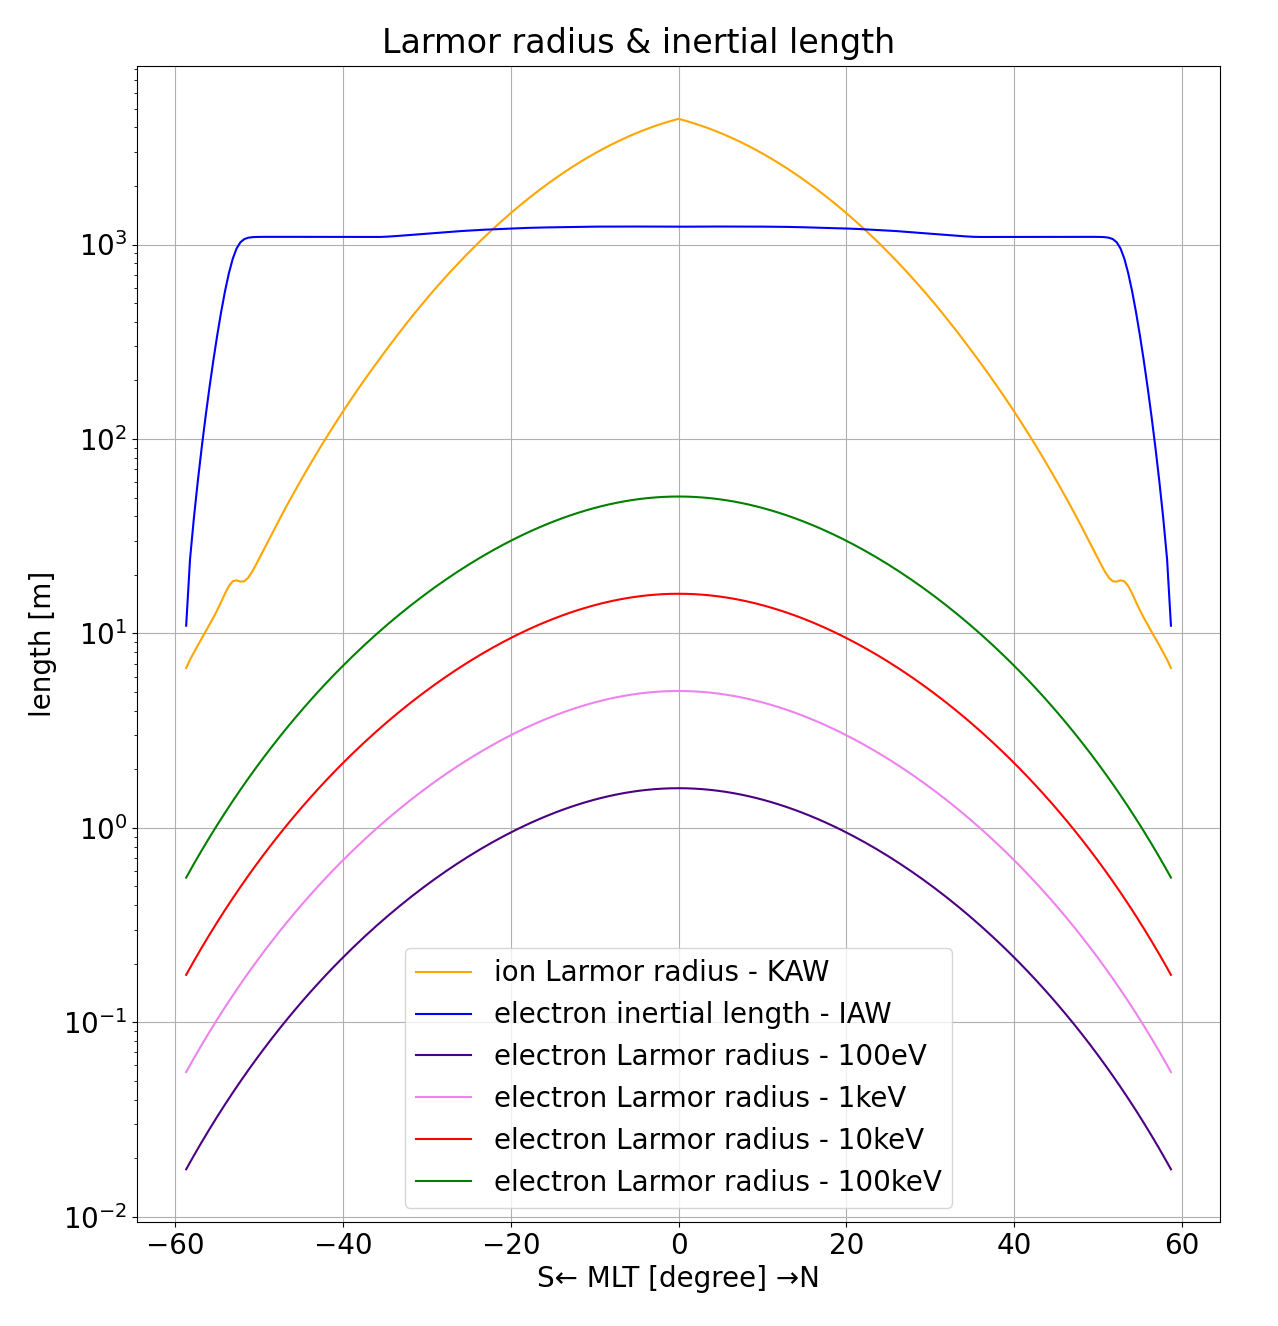
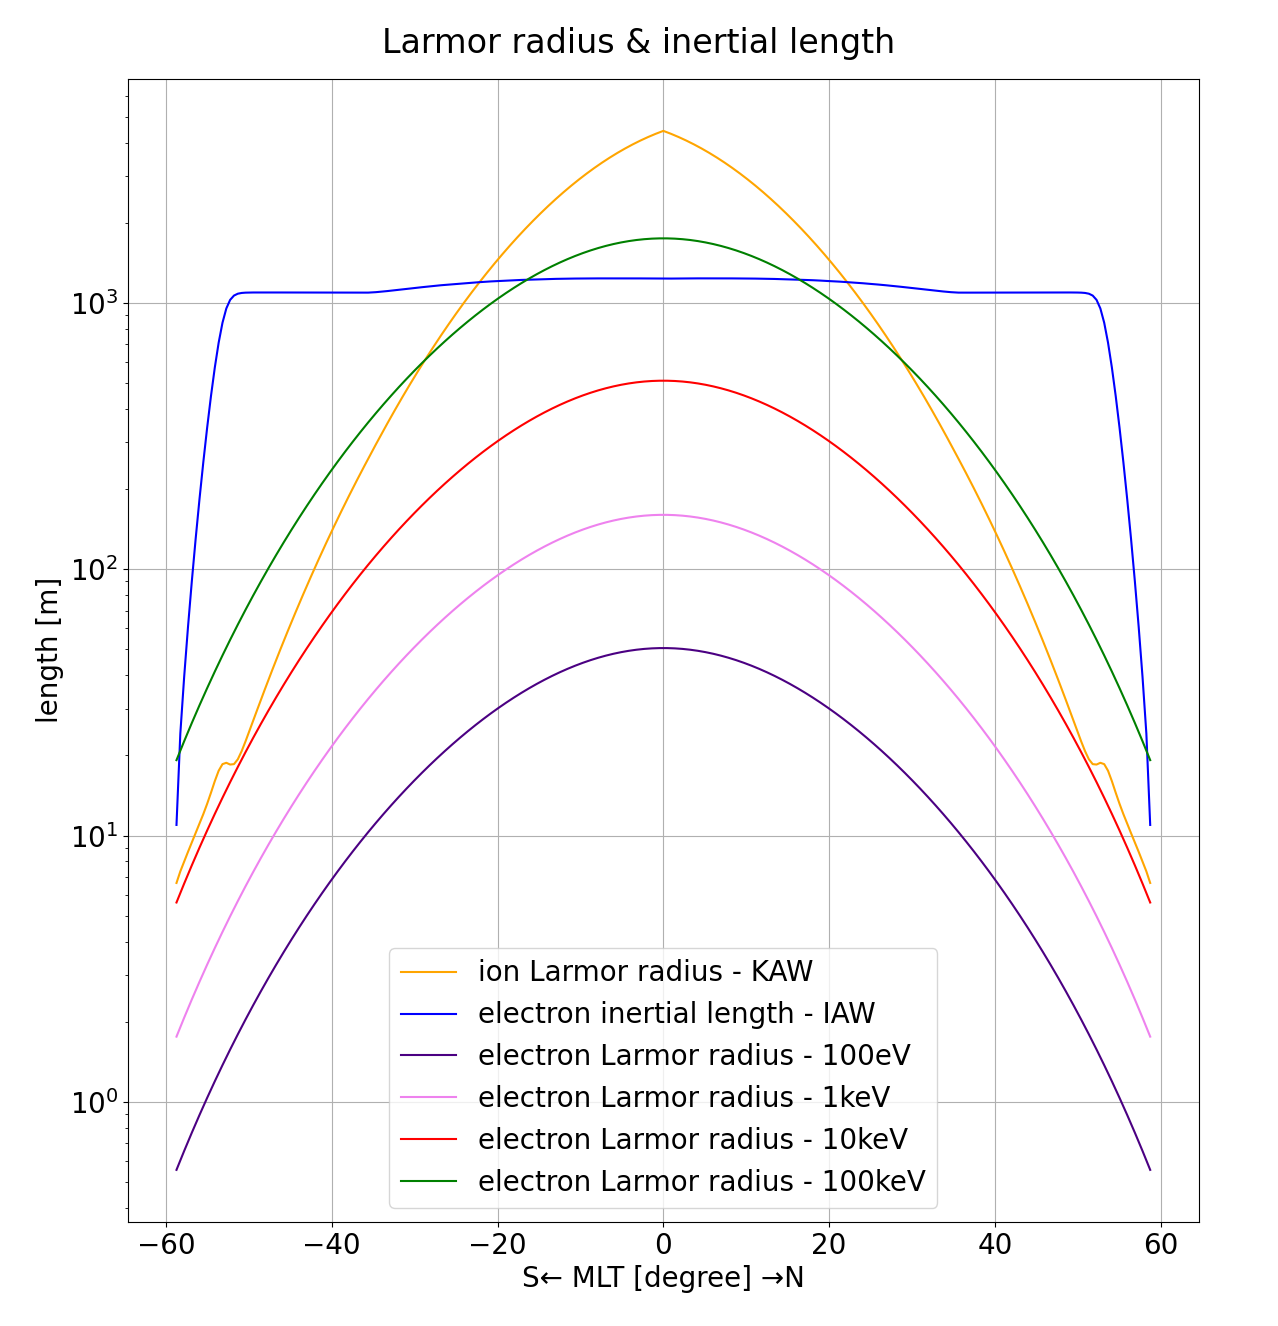
電子Larmor半径のeV→keVに訂正

diff --git a/pds_kai/python_draw/codes/pds_E_kai_plot.py b/pds_kai/python_draw/codes/pds_E_kai_plot.py
@@ -8,7 +8,7 @@ Created on Wed Feb  3 16:18:06 2021
 import numpy as np
 import matplotlib.pyplot as plt
 
-data = np.genfromtxt(r"pds_kai/pds_E_kai_L=15/pds_E_kai_L=15_2_all.csv", delimiter=',', unpack=True)
+data = np.genfromtxt(r"/home/satanka/Documents/fort/pds_kai/pds_E_kai_L=15/pds_E_kai_L=15_2_all.csv", delimiter=',', unpack=True)
 
 channel = 6
 #1:静電ポテンシャル, 2:数密度, 3:Alfven速度, 4:圧力, 5:ベータ値, 6:Larmor半径&慣性長
@@ -116,7 +116,7 @@ if (channel == 6):
     me = 9.1093837015E-31
     ee = 1.602176634E-19
     Ke = np.array([0.1, 1.0, 10., 100.])
-    Ke = Ke*ee
+    Ke = Ke*ee*1.E3
     cc = 2.99792458E+08
     length = len(BB)
     elr = np.zeros([4, length])
